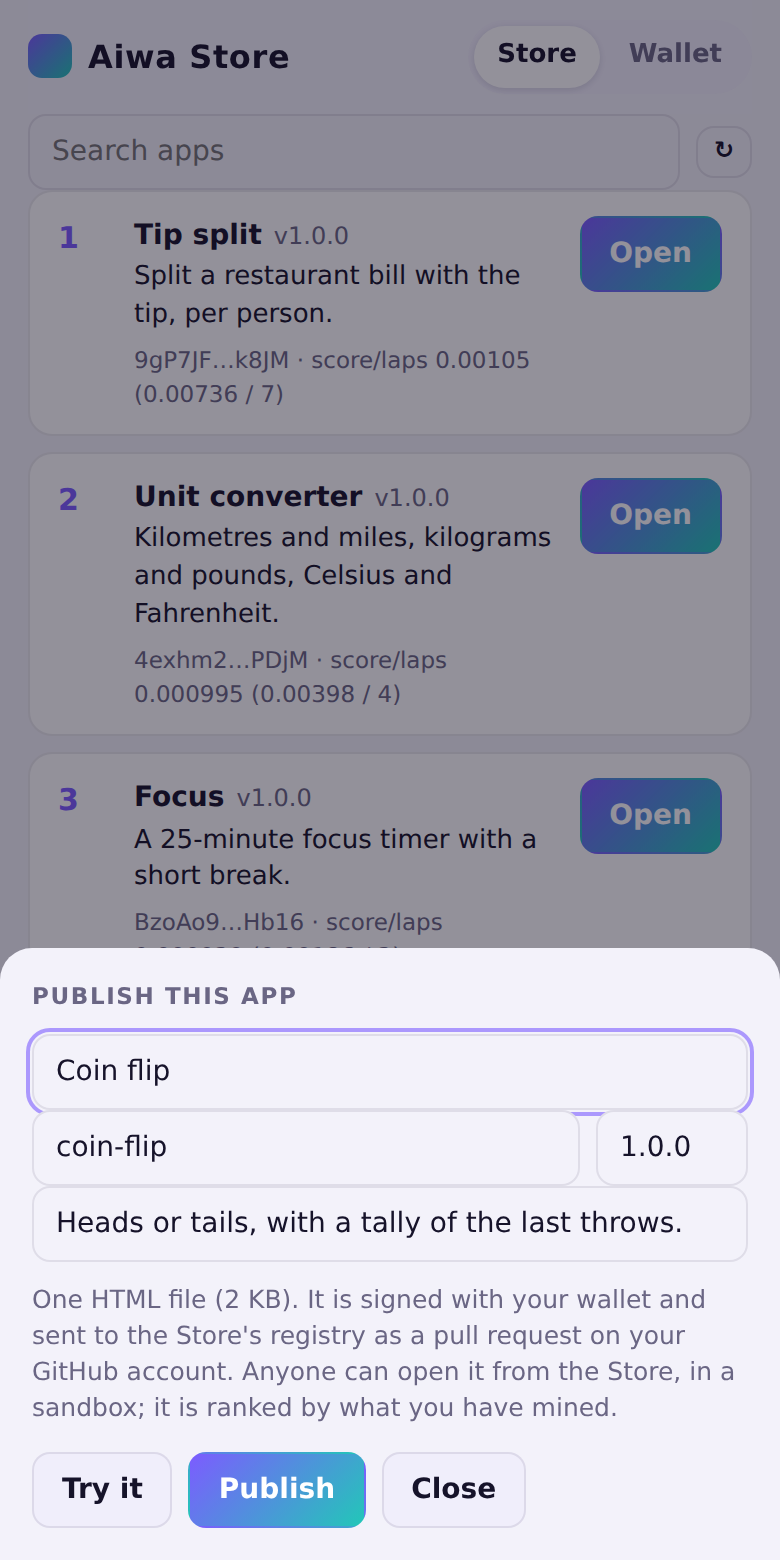
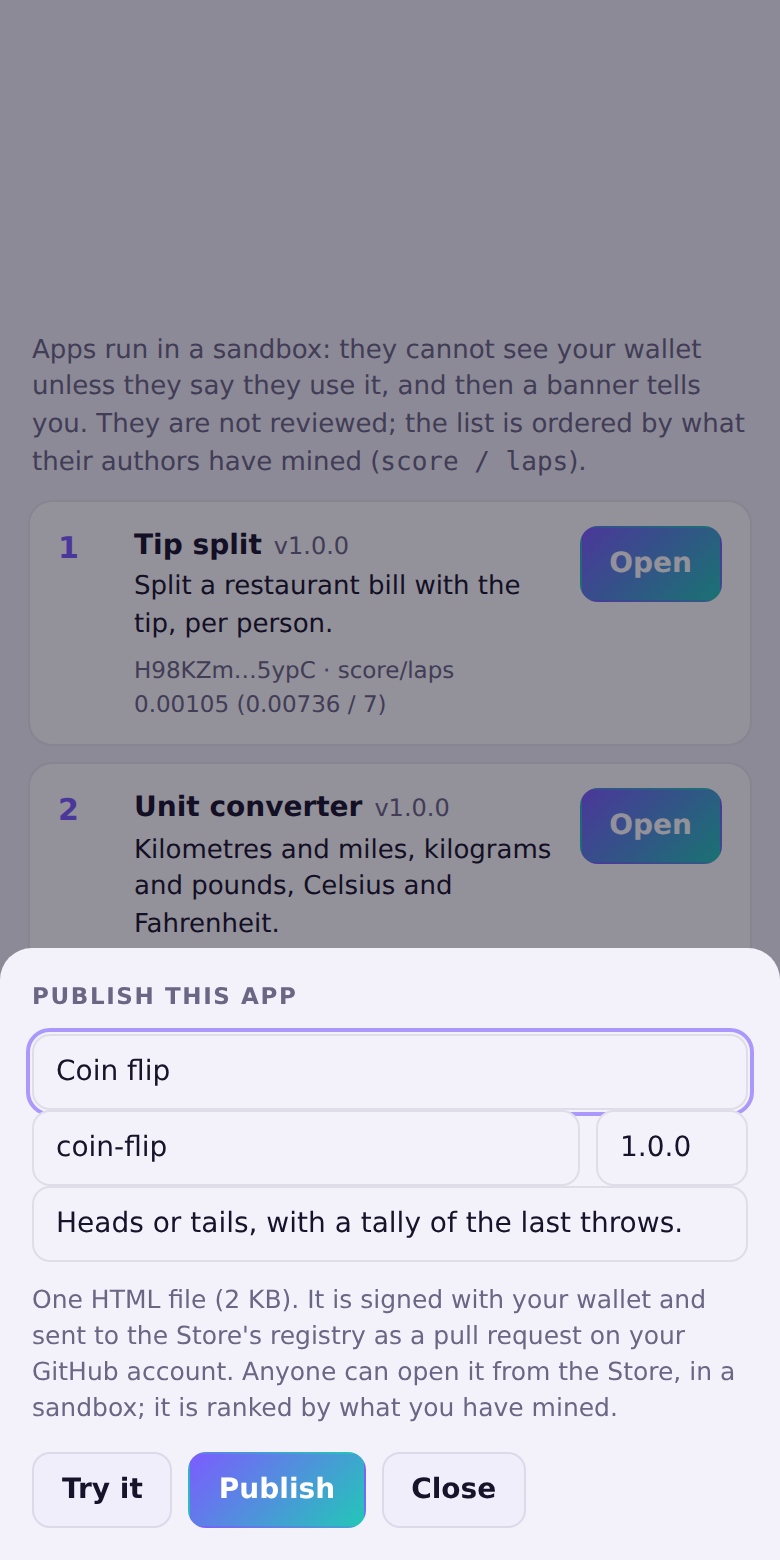
Everything starts at the bottom of the page; the duel says plainly where Solana comes in
Layout: the title and the tabs are a bar at the bottom of the screen, a page's content grows upwards from it (first block against the bar, the Store's search field the lowest thing), a longer page scrolls from the bottom; the viewer's bar (name, Close) is at the bottom too. Screenshots redrawn.
Click duel: the game never touches Solana. The wallet checks once that received AIWA comes from a real burn; with no connection the payment is received and counts once the phone has been online, and the game says so instead of showing an amount that looks short. receive answers { balance, pending }. The plan lists it as a known limit.

Claude-Session: https://claude.ai/code/session_01S5j8dYds3u6eK8oyawL3i6

diff --git a/apps/web/src/style.css b/apps/web/src/style.css
@@ -39,30 +39,46 @@ body {
 }
 a { color: var(--accent); }
 
-.wrap { max-width: 720px; margin: 0 auto; padding: 0 14px 28px; }
+/* Everything starts at the bottom, where the thumb is: the title and the tabs are a bar at the bottom of the screen, and a page's
+   content grows upwards from it (its first block against the bar, the next above it, and so on). A page longer than the screen
+   scrolls, and starts scrolled to the bottom. */
+html, body { height: 100%; height: 100dvh; overflow: hidden; }
+.wrap { max-width: 720px; height: 100%; margin: 0 auto; padding: 0 14px; display: flex; flex-direction: column; }
+.view {
+  flex: 1;
+  min-height: 0;
+  overflow-y: auto;
+  display: flex;
+  flex-direction: column-reverse;
+  padding-top: 10px;
+  scrollbar-width: none;
+}
+.view::-webkit-scrollbar { display: none; }
+.view > *, #wallet-section > * { flex: none; }
+#wallet-section { display: flex; flex-direction: column-reverse; }
+.view > #wallet-section[hidden] { display: none; }
 
 /* ---------- bar ---------- */
 
 .bar {
-  position: sticky;
-  top: 0;
+  order: 3;
+  flex: none;
   z-index: 5;
   display: flex;
   align-items: center;
   justify-content: space-between;
   gap: 10px;
   padding: 10px 0;
-  background: color-mix(in srgb, var(--bg) 88%, transparent);
-  backdrop-filter: blur(10px);
-  -webkit-backdrop-filter: blur(10px);
+  border-top: 1px solid var(--border);
+  background: var(--bg);
 }
-.brand { display: flex; align-items: center; gap: 8px; font-weight: 800; letter-spacing: 0.02em; font-size: 16px; }
+.brand { display: flex; align-items: center; gap: 8px; font-weight: 800; letter-spacing: 0.02em; font-size: 15px; white-space: nowrap; }
 .mark { width: 22px; height: 22px; border-radius: 7px; background: linear-gradient(135deg, var(--accent), var(--accent-2)); flex: none; }
 
 .tabs { display: flex; gap: 2px; padding: 3px; border-radius: 999px; background: var(--raised); }
 .tabs button {
   margin: 0;
-  padding: 6px 12px;
+  padding: 6px 10px;
   height: auto;
   border: 0;
   border-radius: 999px;
@@ -240,10 +256,10 @@ a.button { display: inline-flex; align-items: center; height: 38px; padding: 0 1
 
 #viewer { position: fixed; inset: 0; z-index: 20; display: flex; flex-direction: column; background: var(--bg); }
 #viewer[hidden] { display: none; }
-.viewer-bar { display: flex; align-items: center; justify-content: space-between; gap: 10px; padding: 8px 14px; padding-top: max(8px, env(safe-area-inset-top)); border-bottom: 1px solid var(--border); }
+.viewer-bar { order: 3; display: flex; align-items: center; justify-content: space-between; gap: 10px; padding: 8px 14px; padding-bottom: max(8px, env(safe-area-inset-bottom)); border-top: 1px solid var(--border); }
 .viewer-title { min-width: 0; overflow: hidden; text-overflow: ellipsis; white-space: nowrap; }
-#viewer-frame-host { flex: 1; min-height: 0; }
-#viewer .flag { padding: 6px 14px; font-size: 13px; background: var(--danger); color: #fff; }
+#viewer-frame-host { order: 1; flex: 1; min-height: 0; }
+#viewer .flag { order: 2; padding: 6px 14px; font-size: 13px; background: var(--danger); color: #fff; }
 #viewer .door { position: absolute; z-index: 5; }
 .door .qr canvas { display: block; margin: 0 auto; border-radius: 8px; background: #fff; }
 .door textarea { width: 100%; font: 12px ui-monospace, monospace; }
@@ -258,7 +274,7 @@ a.button { display: inline-flex; align-items: center; height: 38px; padding: 0 1
 .contract-list-row span { min-width: 0; overflow-wrap: anywhere; }
 #contract-frame { width: 100%; height: 420px; border: 1px solid var(--border); border-radius: 9px; background: #fff; }
 
-.foot { display: flex; justify-content: center; gap: 16px; margin-top: 18px; font-size: 12px; }
+.foot { order: 2; flex: none; display: flex; justify-content: center; gap: 16px; padding: 6px 0; font-size: 12px; }
 .foot a { color: var(--muted); text-decoration: none; }
 .foot a:hover { color: var(--accent); }
 

diff --git a/apps/web/src/app-door.js b/apps/web/src/app-door.js
@@ -10,7 +10,8 @@
 //   whoami                  { id, address, balance, spendable }       what the app may know of the player
 //   pay { to, amount }      { blob }                                  a payment of `amount` AIWA to the identity `to`, as an
 //                                                                      offline bundle, signed by the channel's session key
-//   receive { blob }        { balance }                               appends a payment received from someone
+//   receive { blob }        { balance, pending }                      appends a payment received from someone; `pending` is how many
+//                                                                      burns it depends on still wait to be confirmed against Solana
 //   showCode { text, title, action }  {}                              a code on screen (QR and text) until hideCode or Close; with
 //                                                                      `action` (a button label) it answers only when that is pressed
 //   hideCode                {}
@@ -118,10 +119,16 @@ const commands = {
     let bundle;
     try { bundle = decodeOfflineBundle(String(blob)); } catch { throw new Error('this is not an Aiwa payment'); }
     await aiwa.receiveOfflineBundle(bundle);
-    // A claim counts only once the burn it comes from is confirmed against Solana: do it now, rather than when the wallet gets to it.
-    if (aiwa.connection) await aiwa.confirmBurns(aiwa.connection).catch(() => {});
+    // AIWA counts for its receiver only once the burn it was created from is confirmed against Solana (§9.2): that is the one thing
+    // a received payment needs from outside, and it is asked once per origin. Do it now, rather than when the wallet gets to it. With
+    // no way to reach Solana the payment is received but stays uncounted: `pending` says how many burns still wait.
+    let pending = null;
+    if (aiwa.connection) {
+      const confirmation = await aiwa.confirmBurns(aiwa.connection).catch(() => null);
+      pending = confirmation ? confirmation.pending.length : null;
+    }
     walletChanged();
-    return { balance: String(await aiwa.balance()) };
+    return { balance: String(await aiwa.balance()), pending };
   },
   showCode,
   async hideCode() { if (!waiting) $('door-sheet').hidden = true; return {}; },

diff --git a/docs/demo-apps/click-duel.html b/docs/demo-apps/click-duel.html
@@ -319,9 +319,10 @@ async function receivePayment(m) {
     const before = Number((await door('whoami')).balance);
     const { balance } = await door('receive', { blob: m.blob });
     await refreshBalance().catch(() => {});
-    const got = Number(balance) - before;
-    const expected = Number(costOf(theirFinal ?? theirs));
-    const note = got + 1e-9 < expected ? `<br>(${expected} was due)` : '';
+    // The payment is received. It counts in the wallet once the phone has checked, with Solana, that the AIWA comes from a real burn
+    // (once for a given origin): with no connection yet, that waits, and the game says so rather than pretending.
+    const counted = Number(balance) - before + 1e-9 >= Number(costOf(theirFinal ?? theirs));
+    const note = counted ? '' : '<br><small>Received. It shows in your wallet once this phone has been online, to check where this AIWA comes from.</small>';
     finish(`<b>You won ${Number(m.amount)} AIWA</b>${myFinal} to ${theirFinal}, at ${rate} per click.${note}`, 'win');
   } catch (error) { finish(`<b>You won</b>but the payment was refused: ${error.message}`, 'win'); }
 }

diff --git a/docs/YELLOWPAPER.md b/docs/YELLOWPAPER.md
@@ -1426,7 +1426,7 @@ sequenceDiagram
   Note over A,B: say B clicked less: B owes (B's clicks × R)
   B->>B: door pay: a delegated transfer, signed by the session key
   B->>A: payment { offline bundle }
-  A->>A: door receive: append, confirm B's burn on Solana, balance up
+  A->>A: door receive: append B's events, balance up once B's burn is confirmed (§9.2)
 ```
 
 *What it shows.* "Sign once, click many": the player is asked for no signature at all. The wallet signs one delegation the first
@@ -1434,7 +1434,7 @@ time, and the session key signs the payment. The receiver checks the origin of t
 in the loser's phone about the money, only about the **count**.
 
 *What it does not do.* Each phone reports its own count: a modified app can lie, and the live view only lets the other side notice.
-There is no escrow: the loser can spend the claim elsewhere before the payment is applied (§13.5). The amount a player can lose
+The game itself never touches Solana; the wallet does, once per origin, for any AIWA it receives (§9.2): with no connection the payment is received and counts once the phone has been online. There is no escrow: the loser can spend the claim elsewhere before the payment is applied (§13.5). The amount a player can lose
 is not capped by anything but their balance. Both are left for later, on purpose: the first demonstrations are between people in
 the same room. Finding players nearby (geolocation) is not built. Not tried on real phones: the link between two phones, and the camera in the WebView (a code can always be pasted).
 

diff --git a/docs/EXPLICATION.md b/docs/EXPLICATION.md
@@ -458,11 +458,13 @@ sequenceDiagram
   Note over A,B: 3, 2, 1, puis 20 secondes de clics, chaque téléphone voit le score de l'autre en direct
   Note over A,B: B a cliqué moins, donc B doit ses clics fois le prix
   B->>A: un seul paiement, signé par une clé de session : rien n'est signé par clic
-  A->>A: vérifie sur Solana d'où vient l'argent, le solde monte
+  A->>A: le solde monte (dès que l'on sait que ces AIWA viennent d'un vrai brûlage : voir plus bas)
 ```
 
 Ce que ça montre : rien n'est signé par clic. Le premier paiement à quelqu'un signe une délégation (section 2.2), et le paiement lui-même est
-signé par une clé de session. Ce que ça ne fait pas, exprès pour l'instant : chaque téléphone compte ses propres clics, donc une app modifiée
+signé par une clé de session. Le jeu ne touche jamais Solana. Le portefeuille, lui, y va une fois pour tout AIWA qu'il reçoit : il vérifie que le
+brûlage d'où il vient est réel (section 3.7), sinon n'importe qui pourrait inventer des AIWA et te payer avec. Sans internet à ce moment-là, le
+paiement est reçu et compte dès que le téléphone a été en ligne. Ce que ça ne fait pas, exprès pour l'instant : chaque téléphone compte ses propres clics, donc une app modifiée
 peut mentir ; l'argent n'est pas mis de côté avant la course, donc le perdant pourrait le dépenser ailleurs avant ; il n'y a pas de recherche de
 joueurs à proximité. Essayé entre deux pages du navigateur d'un ordinateur, pas entre deux vrais téléphones.
 

diff --git a/docs/EXPLAINED.md b/docs/EXPLAINED.md
@@ -438,11 +438,13 @@ sequenceDiagram
   Note over A,B: 3, 2, 1, then 20 seconds of clicking, each phone shows the other's count live
   Note over A,B: B clicked less, so B owes its clicks times the price
   B->>A: one payment, signed by a session key: nothing is signed per click
-  A->>A: checks where the money comes from on Solana, the balance goes up
+  A->>A: the balance goes up (once the AIWA is known to come from a real burn: see below)
 ```
 
 What it shows: nothing is signed per click. The first payment to someone signs one delegation (section 2.2), and the payment itself is
-signed by a session key. What it does not do, on purpose for now: each phone counts its own clicks, so a modified app can lie; the money
+signed by a session key. The game itself never touches Solana. The wallet does, once, for any AIWA it receives: it checks that the burn it
+was created from is real (section 3.7), otherwise anyone could invent AIWA and pay you with it. With no internet at that moment, the payment
+is received and counts as soon as the phone has been online. What it does not do, on purpose for now: each phone counts its own clicks, so a modified app can lie; the money
 is not set aside before the race, so the loser could spend it elsewhere first; there is no search for players nearby. It has been tried
 between two pages of a computer's browser, not between two real phones.
 

diff --git a/docs/PLAN.md b/docs/PLAN.md
@@ -50,6 +50,8 @@ Tests pass in CI; documentation says exactly what was and was not verified; no c
 
 ## Known risks
 
+- **Receiving AIWA needs Solana once.** The receiving wallet confirms the burn the coin was created from (otherwise anyone could invent AIWA). With no connection a payment is received but counts only once the phone has been online: two phones in a room with no network cannot see the payment in the balance yet. A mode where a wallet accepts a payment from the person in front of it, flagged as unchecked, is not built.
+
 - **The camera in the Android app has never run.** The page reads QR codes with `getUserMedia` and decodes them in JavaScript (jsQR, tested in Chromium against a fake camera that films a code); `StoreActivity` grants the camera to the page's own origin, for video only, after Android's permission (written, compiled in CI). Whether a phone's WebView then delivers frames is not known. Pasting a code always works.
 - **An app that declares the wallet can spend it.** The door has no cap, no expiry and asks nothing; the Store only shows a banner. Kept apart from the sandbox on purpose, to be decided later.
 

diff --git a/CHANGELOG.md b/CHANGELOG.md
@@ -22,3 +22,5 @@
 - The Store reads QR codes with the camera: decoded in JavaScript (jsQR, tested in Chromium against a fake camera), and `StoreActivity` grants the camera to the page's own origin, for video only, after Android's permission (compiled in CI, never run on a phone). Web tests 40.
 - The widget's logo opens the app (the Store), not the dictation text screen; inside the app a **Dictate** tab opens that screen.
 - The README's introduction: a distributed ecosystem (build, submit, store, token, play and pay), not only a store.
+- Layout from the bottom of the page: the title and the tabs are a bar at the bottom of the screen, a page's content grows upwards from it, the Store's search field is the lowest thing; the viewer's bar (name, Close) is at the bottom too. The README's screenshots are redrawn.
+- The click duel says plainly where Solana comes in: the game never touches it; the wallet checks once that received AIWA comes from a real burn, and with no connection a payment counts once the phone has been online (`receive` now answers `pending`).

diff --git a/apps/web/README.md b/apps/web/README.md
@@ -11,6 +11,12 @@ There is no Publish tab. The **publish sheet** (`src/publish-ui.js`) opens when 
 what the author is looking at and open a pull request on their GitHub account (`src/github.js`: fork, branch, file, pull request;
 the login is GitHub's device flow, run by the Android app).
 
+## Layout
+
+Everything starts at the bottom, where the thumb is: the title and the tabs are a bar at the bottom of the screen, and a page's content grows upwards
+from it (its first block against the bar, the next above). The Store's search field is therefore the lowest thing on the page, and a page longer than
+the screen scrolls from the bottom. An app in the viewer has its own bar (name, Close) at the bottom too (`src/style.css`).
+
 ## How an app runs
 
 An app is untrusted code. It is loaded into `<iframe sandbox="allow-scripts">` — never `allow-same-origin` — so the
